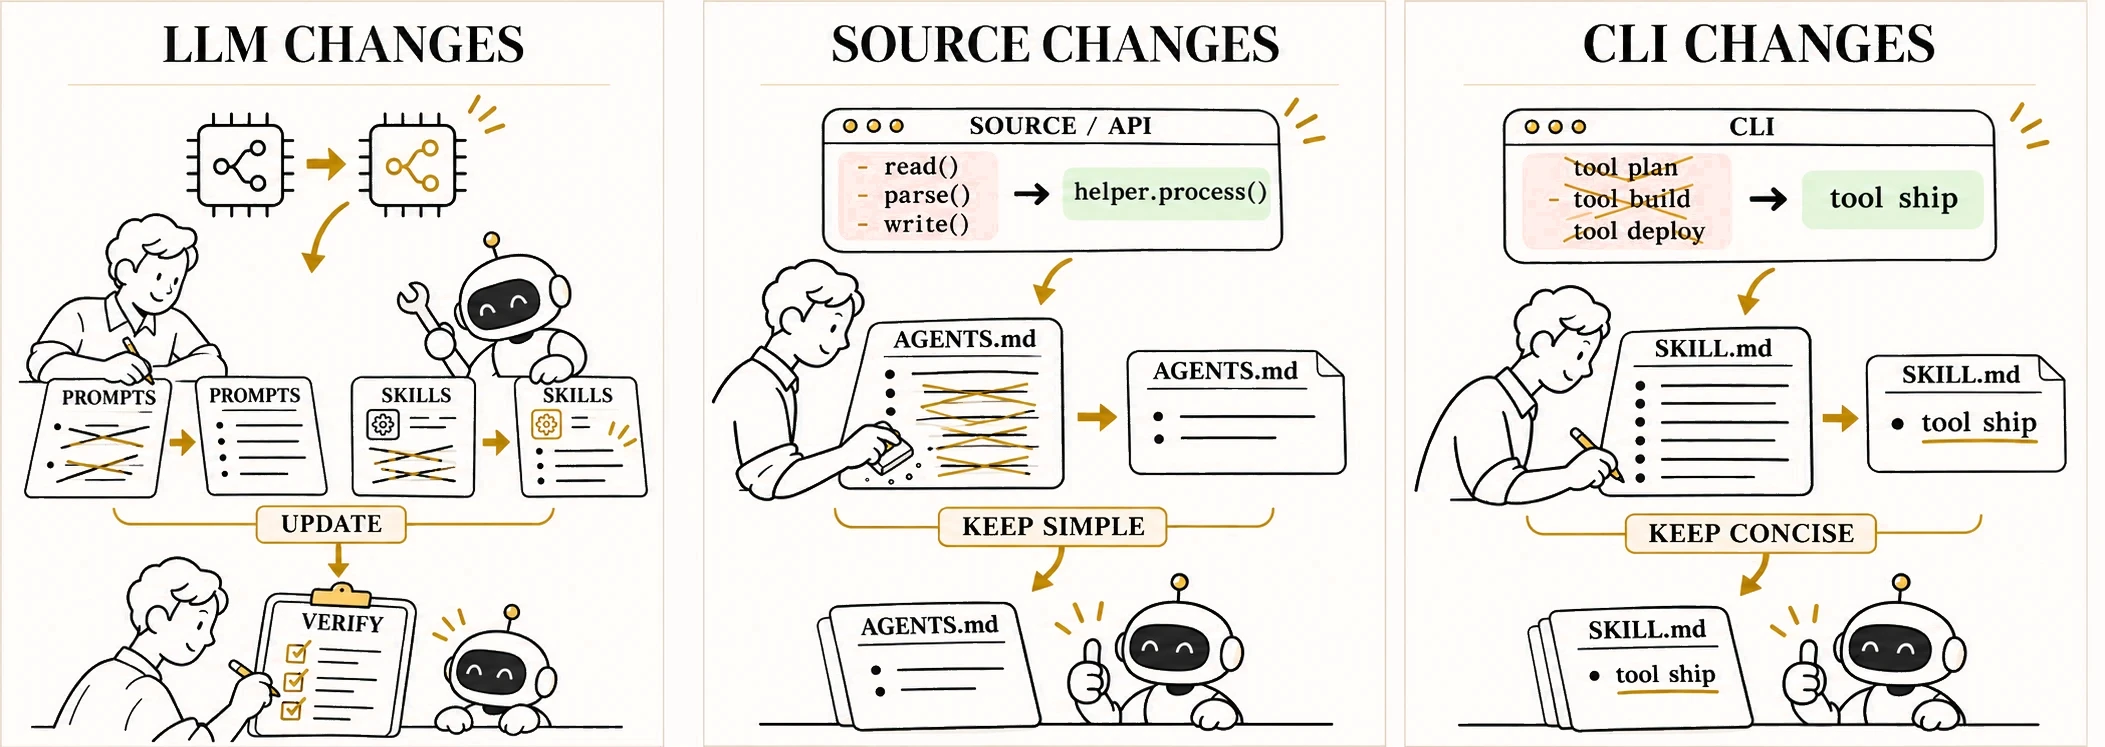
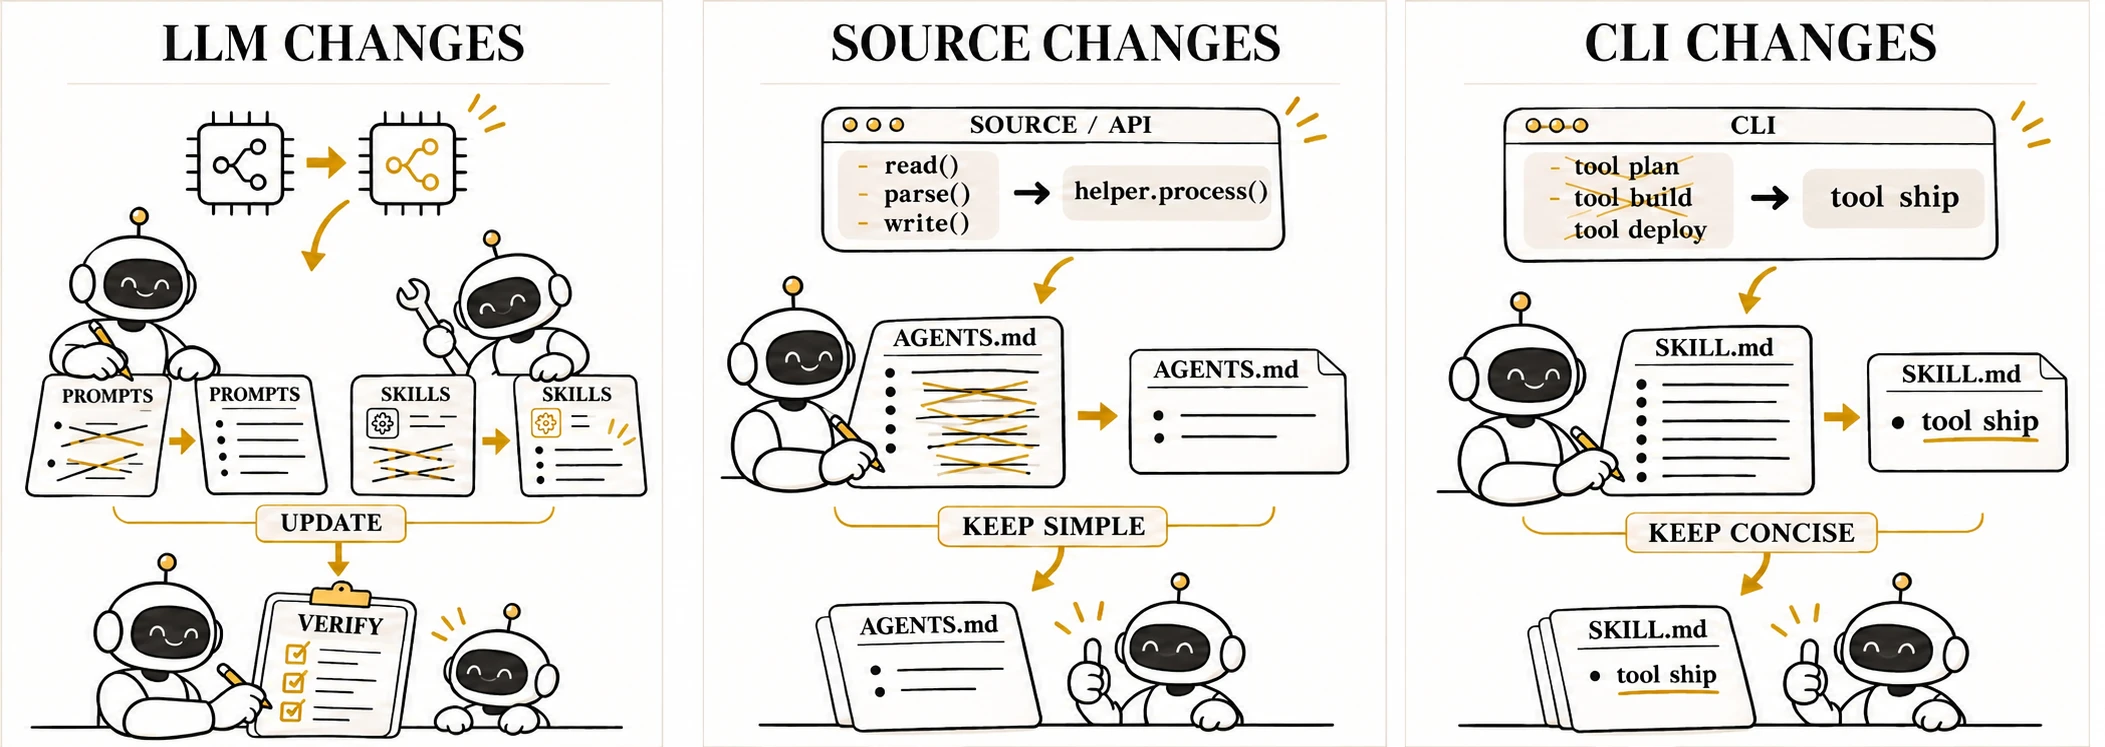
feat(deck): add self-evolving agent artefacts

diff --git a/meta-tags.html b/meta-tags.html
@@ -19,7 +19,7 @@
 />
 <meta
   property="og:description"
-  content="Ten golden rules for agentic engineering: prepare codebase patterns, improve developer experience, set quality gates, define outcomes, strengthen context and tools, keep the agent harness current as frontier models and codebases change, automate repeated work, improve end-to-end delivery flow, and choose agent autonomy to fit the task and its risk."
+  content="Ten golden rules for agentic engineering: prepare codebase patterns, improve developer experience, set quality gates, define outcomes, strengthen context and tools, let LLMs maintain prompts, skills, and repository guidance as models and codebases change, automate repeated work, improve end-to-end delivery flow, and choose agent autonomy to fit the task and its risk."
 />
 <meta
   property="og:image"
@@ -53,7 +53,7 @@
 />
 <meta
   name="twitter:description"
-  content="Ten golden rules for agentic engineering: prepare codebase patterns, improve developer experience, set quality gates, define outcomes, strengthen context and tools, keep the agent harness current as frontier models and codebases change, automate repeated work, improve end-to-end delivery flow, and choose agent autonomy to fit the task and its risk."
+  content="Ten golden rules for agentic engineering: prepare codebase patterns, improve developer experience, set quality gates, define outcomes, strengthen context and tools, let LLMs maintain prompts, skills, and repository guidance as models and codebases change, automate repeated work, improve end-to-end delivery flow, and choose agent autonomy to fit the task and its risk."
 />
 <meta
   name="twitter:image"
@@ -77,7 +77,7 @@
       "@id": "https://www.indrapatil.com/agentic-engineering-golden-rules/#presentation",
       "name": "Golden Rules for Agentic Engineering",
       "headline": "Golden Rules for Agentic Engineering",
-      "description": "A RevealJS presentation of ten golden rules for using coding agents to boost productivity without compromising software quality, including keeping the agent harness current as frontier models, interfaces, and codebases change, automating repeated work, improving end-to-end software delivery flow, and choosing agent autonomy to fit the task and its risk.",
+      "description": "A RevealJS presentation of ten golden rules for using coding agents to boost productivity without compromising software quality, including letting LLMs maintain prompts, skills, and repository guidance as models, tools, and codebases change, automating repeated work, improving end-to-end software delivery flow, and choosing agent autonomy to fit the task and its risk.",
       "url": "https://www.indrapatil.com/agentic-engineering-golden-rules/",
       "image": "https://www.indrapatil.com/agentic-engineering-golden-rules/media/social-media-card.webp",
       "thumbnailUrl": "https://www.indrapatil.com/agentic-engineering-golden-rules/media/social-media-card.webp",

diff --git a/style.css b/style.css
@@ -92,6 +92,28 @@
   margin-bottom: 0.9em;
 }
 
+.reveal .prompt-example {
+  max-width: 72%;
+  margin: 0.25em auto 0.1em;
+  padding: 0.32em 0.8em;
+  border-radius: var(--deck-radius);
+  background: var(--deck-stone);
+  font-family: var(--deck-display);
+  font-size: 0.48em;
+  line-height: 1.3;
+}
+
+.reveal .prompt-label {
+  display: block;
+  margin-bottom: 0.12em;
+  color: var(--deck-gold-deep);
+  font-family: var(--deck-sans);
+  font-size: 0.72em;
+  font-weight: 600;
+  letter-spacing: 0.12em;
+  text-transform: uppercase;
+}
+
 .reveal .slides section.smaller .lede {
   font-size: 0.9em;
   margin-bottom: 0.6em;

diff --git a/media/README.md b/media/README.md
@@ -267,35 +267,50 @@ Redesign the information graphic into a readable landscape layout. Top elegant p
 
 ## model-change-maintenance.webp
 
-The illustration shows why the agent harness must keep pace with a changing
-field and codebase: model changes prompt review of prompts and skills, source
-changes prompt cleanup of stale `AGENTS.md` guidance and verification through
-tests, and CLI changes prompt shorter skill instructions. All three panels use
-a bright ivory canvas, pale warm-stone panels, fine near-black linework, and
-restrained gold accents.
+The illustration shows LLMs maintaining prompts, skills, and repository
+guidance as models, source code, and CLI tools change. LLM robots make the
+updates in all three panels. The image uses a bright ivory canvas, pale
+warm-stone panels, fine near-black linework, and restrained gold accents.
 
 ```text
-Create a landscape 16:9 presentation illustration in the deck's shared
-editorial style, using devex-agentex.webp, one-command-setup.webp,
-session-hygiene.webp, and know-thy-tools.webp as style references only. Use a
-flat ivory canvas, two square light-stone panels, fine near-black ink linework,
-restrained gold arrows and details, and simple friendly human and robot
-figures. Give the panels simple serif headings exactly "LLM CHANGES" and
-"SOURCE CHANGES". LEFT: show a model update, stale PROMPTS crossed out, current
-PROMPTS and SKILLS cards, and a developer and robot verifying the edits. RIGHT:
-show a source diff, stale AGENTS.md advice crossed out, current AGENTS.md
-guidance being added, and a robot checking TESTS. Make the causal links from
-change to review, update, and verification easy to follow. Keep labels short
-and legible; do not repeat the slide title or subtitle, add a footer, or use
-painterly rendering, rounded panel frames, green checks, gradients, or dark
-backgrounds.
+Edit the supplied wide three-panel presentation illustration in the deck's
+editorial style, using agent-autonomy.webp as a palette reference only. Keep
+all three panels and their exact headings: "LLM CHANGES", "SOURCE CHANGES",
+and "CLI CHANGES". Replace every human with a friendly LLM robot. Show an LLM
+updating prompts and skills after a model change; an LLM removing obsolete
+read/parse/write guidance from AGENTS.md when helper.process() appears; and an
+LLM replacing tool plan/build/deploy instructions in SKILL.md with tool ship.
+Preserve the existing examples and causal arrows. Use a bright ivory canvas,
+very pale warm-stone panels, fine near-black linework, square gold hairlines,
+and restrained gold accents. No people, extra wording, title, footer,
+saturated colours, gradients, shadows, or watermark.
 ```
 
-Final built-in image edit: use `agent-autonomy.webp` as a palette reference and
-lighten both the canvas and all three large panel interiors to bright ivory
-and very pale warm stone. Keep the panels subtly distinct from the canvas and
-retain the interface cards' pale pink and green accents. Preserve all text,
-artwork, and layout.
+## constituents-of-success.webp
+
+The equation shows four safeguards adding up to low-touch feature delivery:
+quality gates, a verification harness, an independent LLM reviewer, and
+self-evolving artefacts. An LLM updates prompts, skills, and repository
+guidance as tools and code change. A person focuses on higher-level work and
+retains oversight.
+
+```text
+Edit the supplied presentation illustration to show four safeguards adding
+up to low-touch feature delivery. Preserve the quality gates, verification
+harness, independent LLM reviewer/implementer loop, final delivery panel, and
+bottom quality rail. Add a fourth safeguard panel labelled exactly
+"Self-evolving artefacts" followed by "→ Current agent guidance". Show an LLM
+robot learning from a failed check or reviewer finding and updating concise
+repository guidance, prompts, or skills. Keep five panels in a balanced
+left-to-right equation with plus signs between safeguards and an equals sign
+before the final result. Use readable exact labels: "Quality gates" → "High
+code quality"; "Verification harness" → "Verified behaviour"; "LLM reviewer"
+→ "Issues surfaced early"; "Self-evolving artefacts" → "Current agent
+guidance"; and "Low-touch feature delivery". Preserve the human's oversight
+role in the result panel. Match the bright ivory canvas, very pale warm-stone
+panels, square gold frames, near-black linework, and restrained gold accents.
+No extra text, dark fills, saturated colours, gradients, or watermark.
+```
 
 ## agent-autonomy.webp
 
